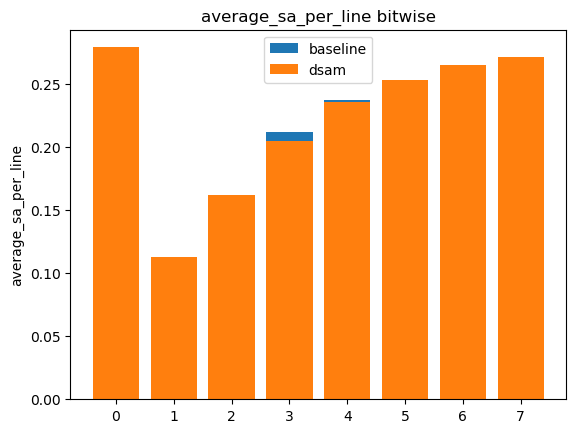
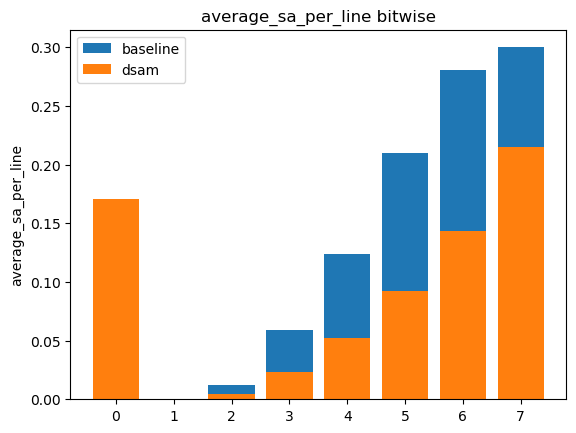
adding resources to featuremap runs

diff --git a/scripts/run_featuremap.py b/scripts/run_featuremap.py
@@ -55,56 +55,62 @@ if __name__ == "__main__":
     dimensions = lib.featuremap.get_dimensions( args.featuremap_path )
 
     def run_baseline(stream_in, layer):
-        return stream_in
+        return stream_in, [0,0]
 
     def run_bi(stream_in, layer):
-        return lib.bi.coding.encoder(stream_in)
+        return lib.bi.coding.encoder(stream_in), [0,0]
 
     def run_dsam(stream_in, layer):
         channels = dimensions[layer][1]
-        return lib.dsam.coding.encoder(stream_in, channels=channels)
+        return lib.dsam.coding.encoder(stream_in, channels=channels), [channels*stream_in.bitwidth, 0]
 
     def run_dsam_rle(stream_in, layer):
         channels = dimensions[layer][1]
         dsam_stream = lib.dsam.coding.encoder(stream_in, channels=channels)
-        return lib.rle.coding.encoder(dsam_stream)
+        return lib.rle.coding.encoder(dsam_stream), [channels*stream_in.bitwidth, 0]
 
     def run_dsam_bi(stream_in, layer):
         channels = dimensions[layer][1]
         dsam_stream = lib.dsam.coding.encoder(stream_in, channels=channels)
-        return lib.bi.coding.encoder(dsam_stream)
+        return lib.bi.coding.encoder(dsam_stream), [channels*stream_in.bitwidth, 0]
 
     def run_apbm(stream_in, layer):
         code_table_stream =copy.deepcopy(stream_in)
         code_table_stream.arr = np.random.choice(code_table_stream.arr, int(args.limit/20))
         code_table = lib.apbm.coding.get_code_table(code_table_stream)
-        return lib.apbm.coding.encoder(stream_in, code_table=code_table)
+        return lib.apbm.coding.encoder(stream_in, code_table=code_table), [len(code_table.keys())*stream_in.bitwidth,0]
 
     def run_abe(stream_in, layer):
-        return lib.abe.coding.encoder(stream_in,window_size=ABE_N)
+        return lib.abe.coding.encoder(stream_in,window_size=ABE_N), [ABE_N*stream_in.bitwidth,0]
 
     def run_awr(stream_in, layer):
-        return lib.awr.coding.encoder(stream_in,N=AWR_N)
+        return lib.awr.coding.encoder(stream_in,N=AWR_N), [AWR_N,0]
 
     def run_huffman(stream_in, layer):
-        code_table = lib.huffman.coding.get_code_table(copy.deepcopy(stream_in))
-        return lib.huffman.coding.encoder(stream_in, code_table)
+        code_table_stream =copy.deepcopy(stream_in)
+        code_table_stream.arr = np.random.choice(code_table_stream.arr, int(args.limit/20))
+        code_table = lib.huffman.coding.get_code_table(code_table_stream)
+        code_table_size = np.sum([ code_table._table[key][0] for key in code_table._table ])
+        return lib.huffman.coding.encoder(stream_in, code_table), [code_table_size,0]
 
     def run_huffman_bi(stream_in, layer):
-        code_table = lib.huffman.coding.get_code_table(copy.deepcopy(stream_in))
+        code_table_stream =copy.deepcopy(stream_in)
+        code_table_stream.arr = np.random.choice(code_table_stream.arr, int(args.limit/20))
+        code_table = lib.huffman.coding.get_code_table(code_table_stream)
+        code_table_size = np.sum([ code_table._table[key][0] for key in code_table._table ])
         huffman_stream = lib.huffman.coding.encoder(stream_in, code_table)
-        return lib.bi.coding.encoder(huffman_stream)
+        return lib.bi.coding.encoder(huffman_stream), [code_table_size,0]
 
     def run_rle(stream_in, layer):
-        return lib.rle.coding.encoder(stream_in)
+        return lib.rle.coding.encoder(stream_in), [0,0]
  
     def run_rle_bi(stream_in, layer):
         rle_stream = lib.rle.coding.encoder(stream_in)
-        return lib.bi.coding.encoder(rle_stream)
+        return lib.bi.coding.encoder(rle_stream), [0,0]
  
     def run_rle_dsam(stream_in, layer):
         channels = dimensions[layer][1]
-        return lib.rle_dsam.coding.encoder(stream_in,channels=channels)
+        return lib.rle_dsam.coding.encoder(stream_in,channels=channels), [channels*stream_in.bitwidth, 0]
    
     # encoders to run
     encoders = {
@@ -141,11 +147,12 @@ if __name__ == "__main__":
             print("{}: \t running {}".format(layer,encoder))
 
             # get the stream out
-            stream_out = encoders[encoder](copy.deepcopy(featuremap), layer)
+            stream_out, resources = encoders[encoder](copy.deepcopy(featuremap), layer)
 
             # get all the metrics
             metrics[layer][encoder] = {
                 "bitwidth"                      : stream_out.bitwidth + stream_out.sc_width,
+                "resources"                     : resources,
                 "bitwise_mean"                  : lib.analysis.bitwise_mean(stream_out).astype(float).tolist(),
                 "bitwise_variance"              : lib.analysis.bitwise_variance(stream_out).astype(float).tolist(),
                 "total_transitions"             : lib.analysis.total_transitions(stream_out).astype(float),

diff --git a/scripts/graph_featuremap.py b/scripts/graph_featuremap.py
@@ -5,18 +5,18 @@ import lib.graph
 if __name__ == "__main__":
    
     # plot switching activity per layer
-    lib.graph.plot_per_layer("outputs/caffe_alexnet_8b_multi/output_metrics.json", "outputs/sa_per_layer.png", 
-            metric="average_sa", encoding_scheme_filter=["abe","bi","dsam_serial","apbm","awr","baseline"], show_plot=True)
+    lib.graph.plot_per_layer("outputs/distiller_mobilenet_v2_8b/output_metrics.json", "outputs/sa_per_layer.png", 
+            metric="average_sa", encoding_scheme_filter=["abe","bi","dsam","apbm","awr","baseline"], show_plot=True)
 
     # plot bitwise transitions
-    lib.graph.plot_bitwise("outputs/distiller_alexnet_8b/output_metrics.json", "outputs/bitwise_transitions.png",
+    lib.graph.plot_bitwise("outputs/caffe_alexnet_8b/output_metrics.json", "outputs/bitwise_transitions.png",
             metric="average_sa_per_line", encoding_scheme_filter=["baseline","dsam"], show_plot=True)
 
     # 
-    lib.graph.plot_per_encoding_scheme("outputs/caffe_alexnet_8b_multi/output_metrics.json", "outputs/sa_per_encoding_scheme.png",
+    lib.graph.plot_per_encoding_scheme("outputs/caffe_alexnet_8b/output_metrics.json", "outputs/sa_per_encoding_scheme.png",
             metric="total_transitions", encoding_scheme_filter=[], show_plot=True)
 
-    lib.graph.plot_transitions_per_samples("outputs/distiller_alexnet_8b/output_metrics.json","outputs/sa_per_encoding_scheme.png", 
+    lib.graph.plot_transitions_per_samples("outputs/caffe_alexnet_8b/output_metrics.json","outputs/sa_per_encoding_scheme.png", 
             encoding_scheme_filter=["rle","rle_dsam","huffman","huffman_bi","baseline"], show_plot=True)
  
     """
